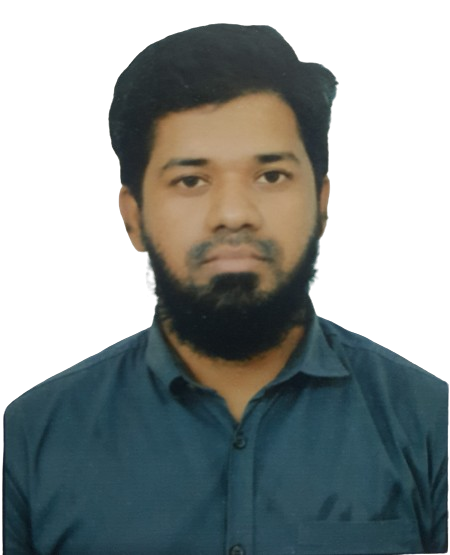
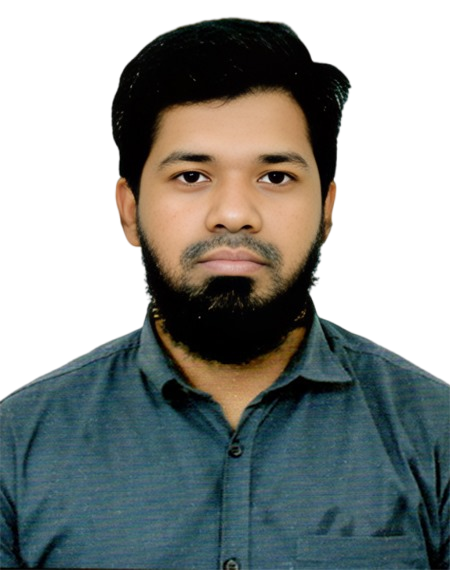
added new image

diff --git a/index.html b/index.html
@@ -18,8 +18,8 @@
         <img src="./images/developer.png" alt="" />
       </div>
       <div>
-        <nav>
-          <h3 class="nav-title">Ma<span class="text-primary">r</span>y</h3>
+        <nav >
+          <h3 class="nav-title">Su<span class="text-primary">m</span>on</h3>
           <ul>
             <li><a href="">portfolio</a></li>
             <li><a href="">Blog</a></li>
@@ -30,10 +30,9 @@
         <div class="banner">
           <div class="banner-content">
             <h3 class="banner-greeting">HI,I am</h3>
-            <h1 class="banner-title">SUMON</h1>
+            <h1 class="banner-title"> MD SUMON</h1>
             <p class="banner-description">
-              Shot what able cold new see hold.Friendly as an betrayed formerly
-              he. Morning because as to society behaved moments.
+              Responsive, Dynamic ,Eye catching Professional Front & Back End Web-Developer
             </p>
             <div class="contact-btn">
               <button class="btn-primary">Download CV</button>
@@ -41,7 +40,7 @@
             </div>
           </div>
           <div class="banner-img">
-            <img class="profile-pic" src="images/hardy.png" alt="" />
+            <img class="profile-pic" src="images/SUMON.png" alt="" />
           </div>
         </div>
       </div>
@@ -199,7 +198,7 @@
         <h3 class="section-title">Lets Connect</h3>
         <p>Please fill out the form on this section to contact with me or call between 9:00 A.M and 8.00 P.M ET, Monday through Friday.</p>
         <div class="social-links">
-          <a href=""><img src="images/icons/facebook.png" alt=""></a>
+          <a href="https://www.facebook.com/profile.php?id=100007060265379"><img src="images/icons/facebook.png" alt=""></a>
           <a href=""><img src="images/icons/twitter.png" alt=""></a>
           <a href=""><img src="images/icons/insta.png" alt=""></a>
         </div>

diff --git a/styles/portfolio.css b/styles/portfolio.css
@@ -45,8 +45,9 @@ body {
   background-image: url('../images/header_bg.png');
   background-repeat: no-repeat;
   background-position: bottom right;
+
   display: flex;
-  padding: 15px;
+
 }
 
 /* nav related styles  */
@@ -54,7 +55,8 @@ nav {
   display: flex;
   justify-content: space-between;
   align-items: center;
-  margin: 0 200px;
+  margin: 0 130px;
+
 }
 
 .nav-title {
@@ -71,22 +73,29 @@ nav>ul {
 
 nav li {
   list-style: none;
-  margin-right: 50px;
+  margin-right: 20px;
 }
+
+
 
 nav a {
   text-decoration: none;
 }
 
 .banner {
-  padding: 30px 30px 0px 150px;
+  padding: 30px 0px 0px 120px;
   display: flex;
+  gap: 100px;
+
 
   justify-content: space-between;
+  margin-top: 50px;
+
 }
 
 .banner-content {
-  max-width: 585px;
+  max-width: 600px;
+  padding-top: 60px;
 }
 
 .banner-greeting {
@@ -108,8 +117,26 @@ nav a {
   margin-bottom: 20px;
 }
 
+.contact-btn {
+  display: flex;
+  /* justify-content: space-around; */
+  gap: 30px;
+}
+
+.banner-img {
+
+  padding-top: 95px;
+  padding-right: 0;
+  padding-bottom: 0;
+
+
+}
+
 .profile-pic {
-  width: 500px;
+  width: 100%;
+  vertical-align: middle;
+
+
 }
 
 /* main section styles  */
